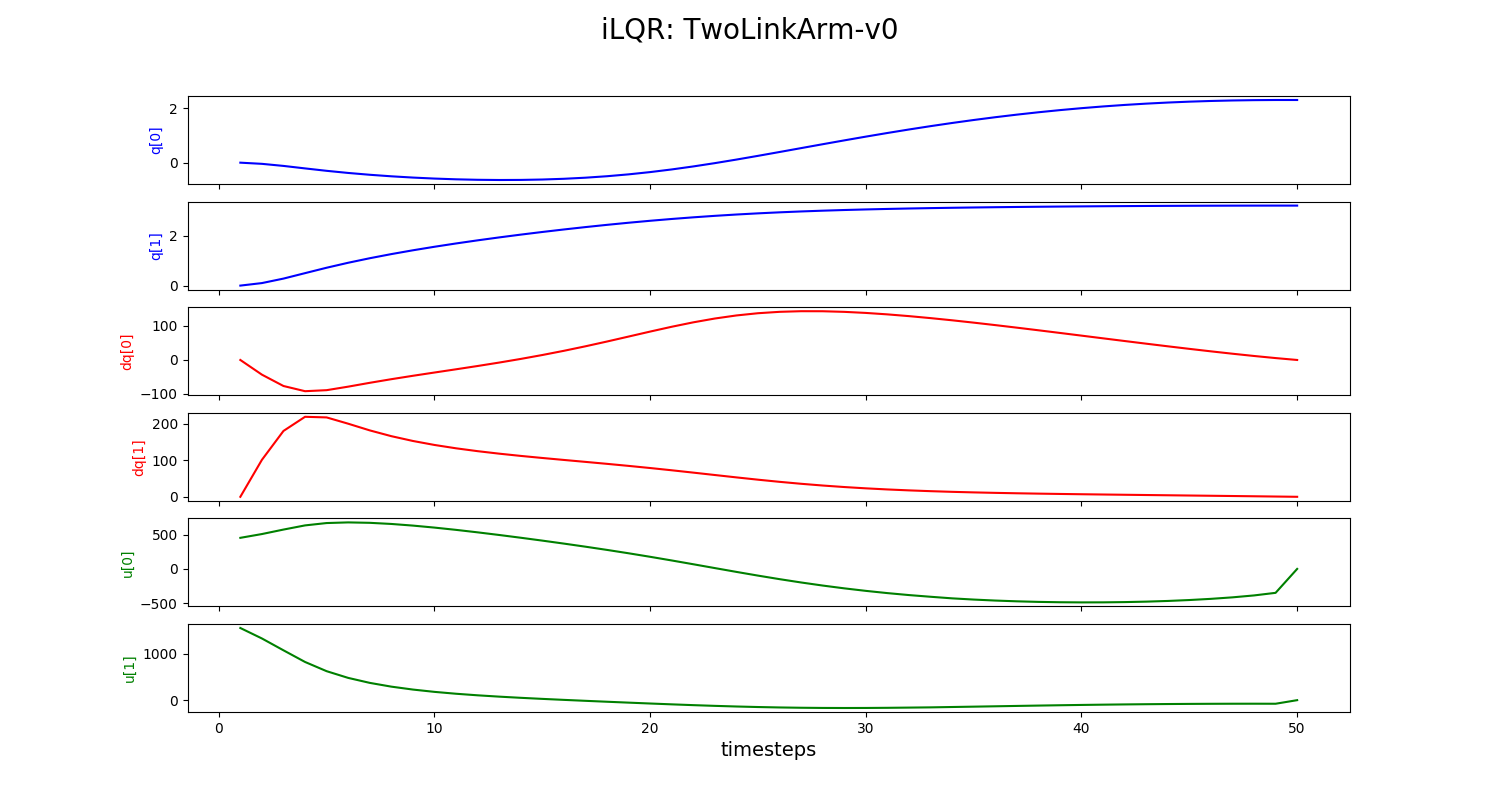
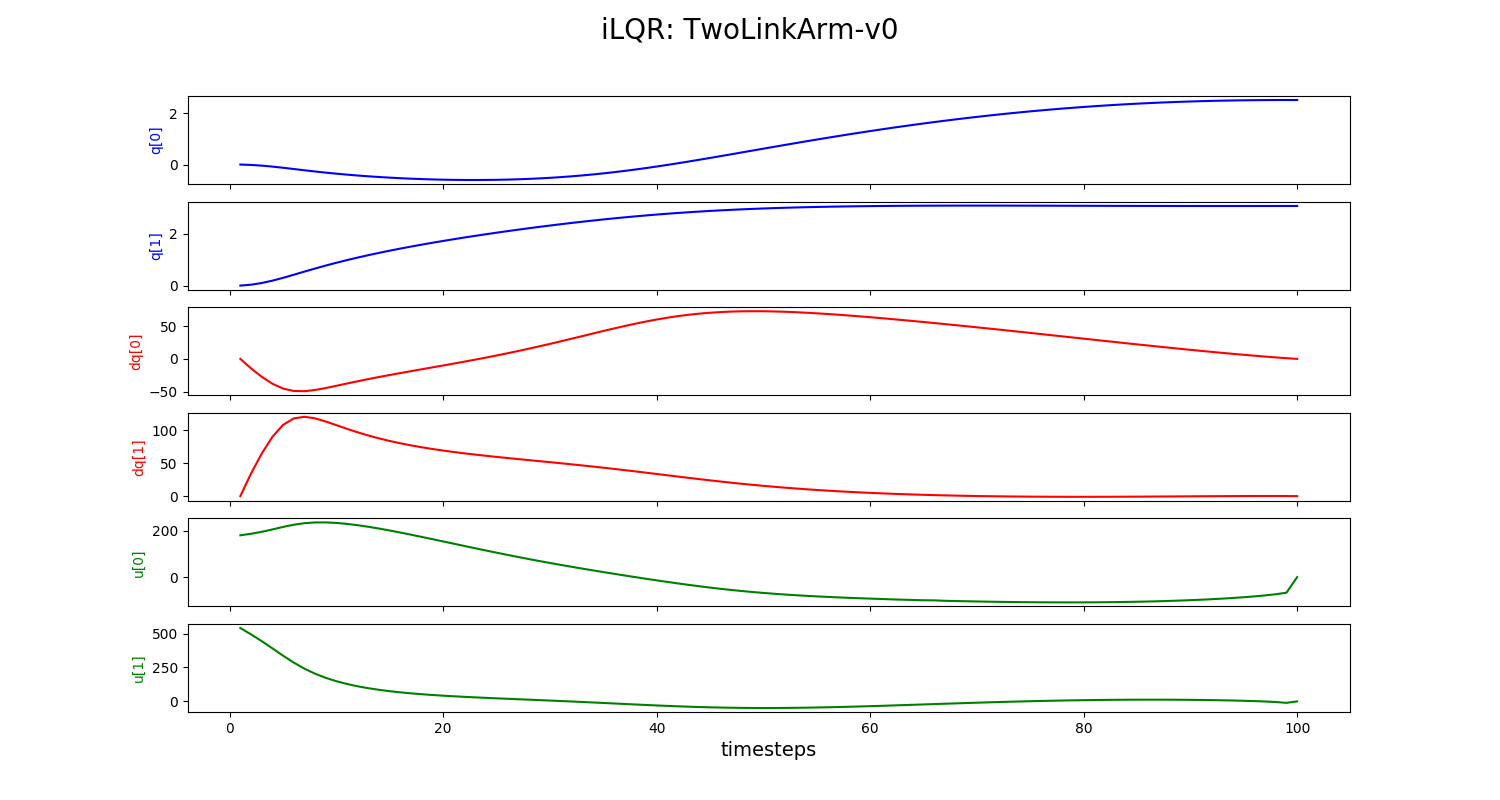
iLQR complete! TODO: speed it up using step size trick and cost function alteration

diff --git a/deeprl_hw3/ilqr.py b/deeprl_hw3/ilqr.py
@@ -142,13 +142,13 @@ def calc_ilqr_input(env, sim_env, tN=50, max_iter=1000000):
     U, U_new = np.zeros((tN, 2)), np.zeros((tN, 2))
     n, d = x0.shape[0], U[0].shape[0]  # n = 4, d = 2
     costs = []  # stats for plotting
-
+    current_cost = np.inf
     # begin optimizing
     for i in range(max_iter):
-        print("At iteration {}".format(i))
+        print("At iteration {} current cost = {}".format(i, current_cost))
 
         # ====================FORWARD========================
-        X, current_cost = simulate(env, x0, U)
+        X, new_cost = simulate(env, x0, U)
         f_u_s, f_x_s, l_u_s, l_uu_s, l_ux_s, l_x_s, l_xx_s, l_s = ilqr_forward(U, X, d, env, n, sim_env, tN)
 
         # ====================BACKWARD========================
@@ -162,23 +162,20 @@ def calc_ilqr_input(env, sim_env, tN=50, max_iter=1000000):
             U_new[t] = U[t] + k[t] + np.dot(K[t], current_x - X[t])
             current_x = simulate_dynamics_next(env, current_x, U_new[t])
 
-        # new trajectory
-        X_new, new_cost = simulate(env, x0, U_new)
-
-        # show time
-        env.render()
-        costs.append(current_cost)
+        # collect monitoring data
+        # env.render()  # optionally can render during training
+        costs.append(new_cost)
 
         # set stopping condition
         if new_cost < current_cost:
-            # update control sequences
-            U = np.copy(U_new)
-            X = np.copy(X_new)  # for stats purpose only, next iteration will reuse x0 anyway
-
             # early stopping
             if abs(new_cost - current_cost) / float(current_cost) <= 1e-3:
                 print("early stopping at loop {}, cost = {}".format(i, new_cost))
                 break
+
+            # update control sequences
+            U = np.copy(U_new)
+            current_cost = new_cost
 
     # We change this API so that plotting will be in our driver "iLQR.py"
     # just besides U, we output plotting statistics

diff --git a/iLQR.py b/iLQR.py
@@ -1,7 +1,9 @@
 import gym
+import time
 import matplotlib.pyplot as plt
 
 import deeprl_hw3.ilqr as ilqr
+# import deeprl_hw3.ilqr_sped_up as ilqr
 
 plt.rcParams['figure.figsize'] = 15, 8
 
@@ -48,11 +50,22 @@ def plot_costs_ilqr(costs=None, env_name=None):
     plt.show()
 
 
+def show_optimal_trajectory(env, U):
+    env.reset()
+    for u in U:
+        env.step(u)
+        env.render()
+        time.sleep(0.1)
+
 def control_ilqr(env_name="TwoLinkArm-v0"):
+
     env, sim_env = gym.make(env_name), gym.make(env_name)
-    U, X, costs = ilqr.calc_ilqr_input(env, sim_env, tN=50, max_iter=1000000)
+    U, X, costs = ilqr.calc_ilqr_input(env, sim_env, tN=100, max_iter=1000000)
     plot_costs_ilqr(costs, "iLQR: " + env_name)
     plot_states_and_control_ilqr(X, U, "iLQR: " + env_name)
+
+    print("Showing optimal trajectory")
+    show_optimal_trajectory(env, U)
 
 
 if __name__ == "__main__":
